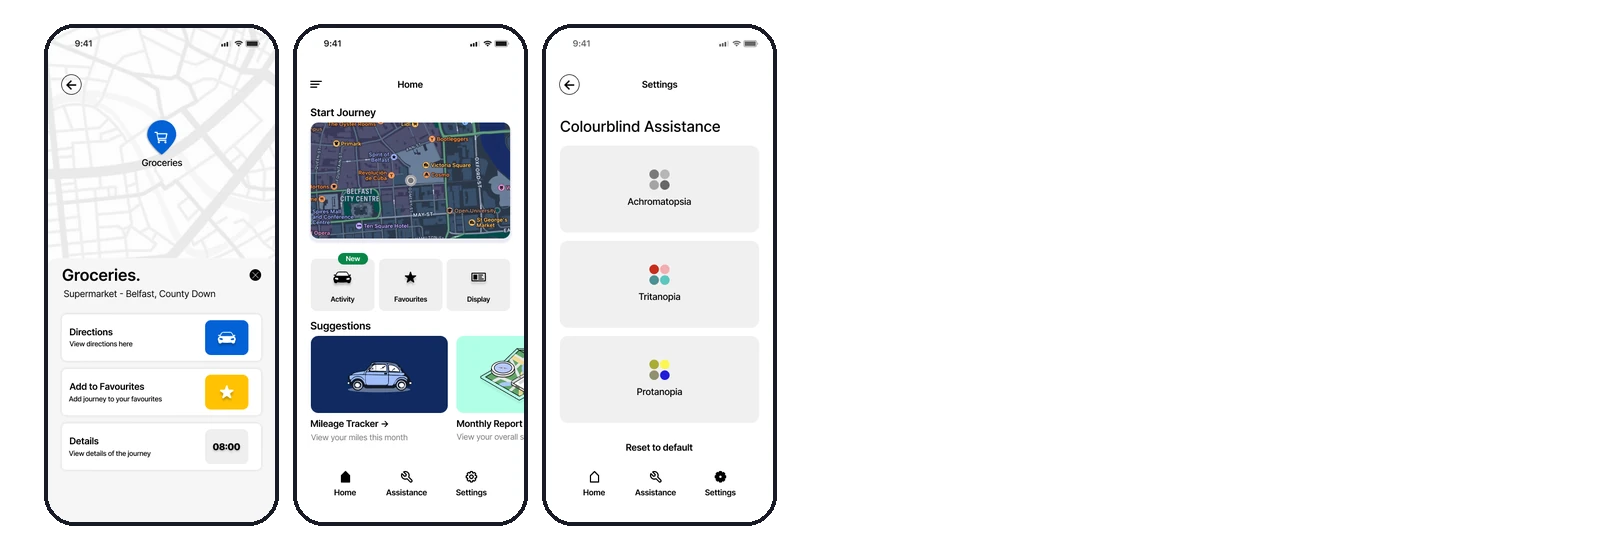
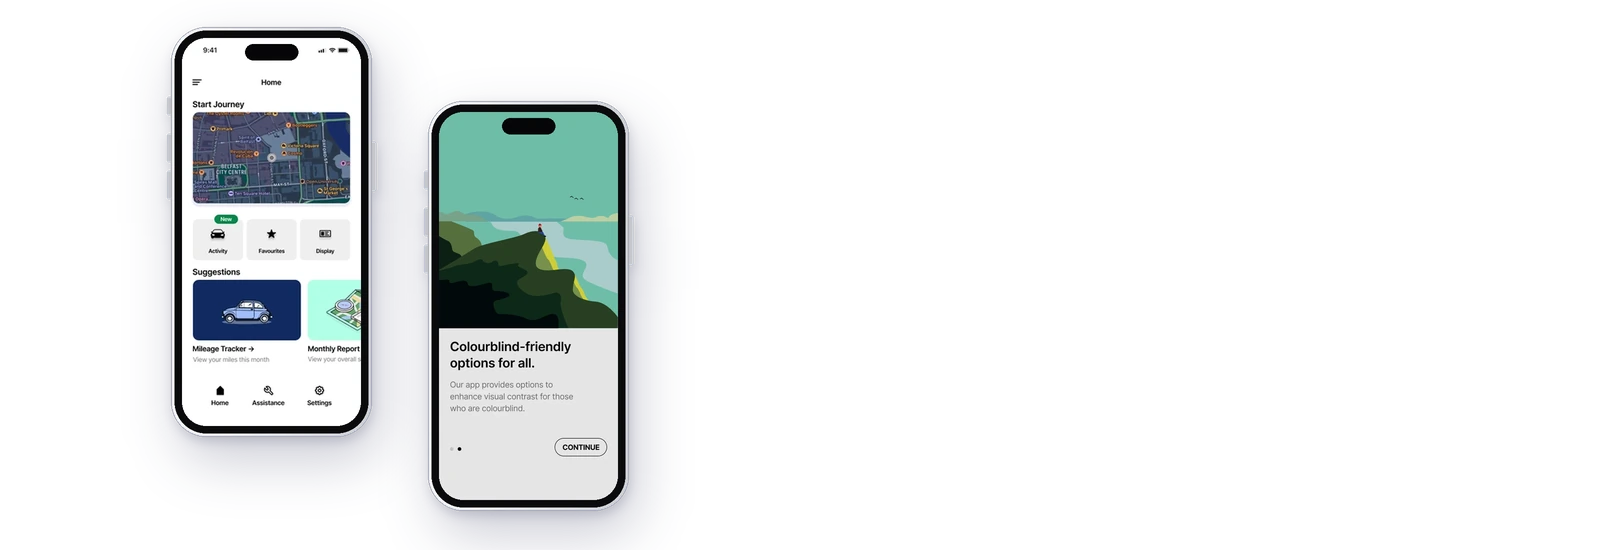
orbit home card: two staggered device mockups
Swap the three flat screens for two realistic phone mockups (silver frame,
Dynamic Island, soft shadows), staggered like a product shot: the Home
screen and the colourblind onboarding screen. The pair is centred on the
image's left half, so desktop keeps the whitespace on the right and mobile
shows both phones centred without the extra padding.

Changed region(s): [[0.0312, 0.0309, 0.5, 0.9891], [0.0312, 0.7727, 0.0938, 0.8345]]

diff --git a/index.html b/index.html
@@ -18,8 +18,8 @@
   <link rel="preconnect" href="https://fonts.googleapis.com">
   <link rel="preconnect" href="https://fonts.gstatic.com" crossorigin>
   <link rel="stylesheet" href="https://fonts.googleapis.com/css2?family=Manrope:wght@200..800&display=swap">
-  <link rel="stylesheet" href="css/styles.css?v=20260930x">
-  <script src="js/main.js?v=20260930x" defer></script>
+  <link rel="stylesheet" href="css/styles.css?v=20261001a">
+  <script src="js/main.js?v=20261001a" defer></script>
 </head>
 <body id="top">
 
@@ -85,7 +85,7 @@
       <article class="project project--feature">
         <a class="project__link" href="orbit.html">
           <div class="media media--orbit-card project__media">
-            <img class="media__img" src="images/orbit-hero-wide.webp" alt="" onerror="this.remove()">
+            <img class="media__img" src="images/orbit-hero-wide.webp?v=3" alt="" onerror="this.remove()">
           </div>
           <div class="project__text">
             <h3 class="project__title">orbit</h3>

diff --git a/css/styles.css b/css/styles.css
@@ -1643,10 +1643,10 @@ html:not(.js) .wordmark__pen,
 
 /* orbit home card: same wash as the Together placeholder, no hover animation */
 .media--orbit-card { background: linear-gradient(135deg, #eef0fc 0%, #dde2fa 100%); }
-/* Below the wide 32:11 layout the card is 16:11, so frame the three phones on
-   the image's left half instead of cropping from the centre. */
+/* Below the wide 32:11 layout the card is 16:11, so show the image's left half,
+   where the two phones are centred, instead of cropping from the middle. */
 @media (max-width: 899px) {
-  .media--orbit-card .media__img { padding: 5%; object-position: 0% 50%; }
+  .media--orbit-card .media__img { object-position: 0% 50%; }
 }
 
 /* Research figures: full-width, on white with a hairline so they sit in the page like cards. */

diff --git a/tapsos.html b/tapsos.html
@@ -19,8 +19,8 @@
   <link rel="preconnect" href="https://fonts.googleapis.com">
   <link rel="preconnect" href="https://fonts.gstatic.com" crossorigin>
   <link rel="stylesheet" href="https://fonts.googleapis.com/css2?family=Manrope:wght@200..800&display=swap">
-  <link rel="stylesheet" href="css/styles.css?v=20260930x">
-  <script src="js/main.js?v=20260930x" defer></script>
+  <link rel="stylesheet" href="css/styles.css?v=20261001a">
+  <script src="js/main.js?v=20261001a" defer></script>
   <script src="js/tapsos-gate.js?v=20260930a" defer></script>
 </head>
 <body id="top">

diff --git a/orbit.html b/orbit.html
@@ -18,8 +18,8 @@
   <link rel="preconnect" href="https://fonts.googleapis.com">
   <link rel="preconnect" href="https://fonts.gstatic.com" crossorigin>
   <link rel="stylesheet" href="https://fonts.googleapis.com/css2?family=Manrope:wght@200..800&display=swap">
-  <link rel="stylesheet" href="css/styles.css?v=20260930x">
-  <script src="js/main.js?v=20260930x" defer></script>
+  <link rel="stylesheet" href="css/styles.css?v=20261001a">
+  <script src="js/main.js?v=20261001a" defer></script>
 </head>
 <body id="top">
 

diff --git a/404.html b/404.html
@@ -9,7 +9,7 @@
   <link rel="preconnect" href="https://fonts.googleapis.com">
   <link rel="preconnect" href="https://fonts.gstatic.com" crossorigin>
   <link rel="stylesheet" href="https://fonts.googleapis.com/css2?family=Manrope:wght@200..800&display=swap">
-  <link rel="stylesheet" href="/css/styles.css?v=20260930x">
+  <link rel="stylesheet" href="/css/styles.css?v=20261001a">
 </head>
 <body>
   <main class="wrap lost">
